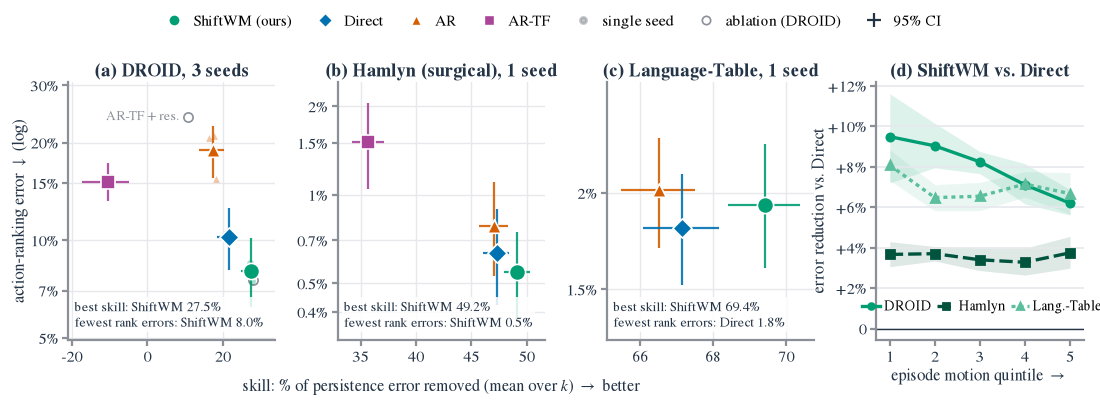
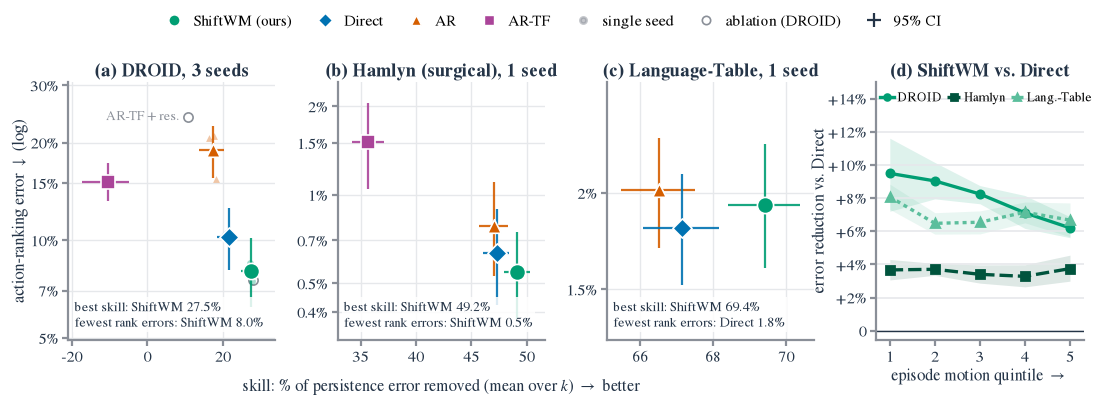
Trade-off figure: panel (d) legend inside the panel, above the data

Changed region(s): [[0.7418, 0.2049, 1.0, 0.761], [0.7727, 0.7902, 0.9891, 0.8195]]

diff --git a/paper/submission_folder/figures/src/make_tradeoff.py b/paper/submission_folder/figures/src/make_tradeoff.py
@@ -158,11 +158,12 @@ def gain_panel(ax, data):
         ax.fill_between(q, lo, hi, color=c, alpha=0.13, lw=0)
         ax.plot(q, g, color=c, ls=ls, marker=mk, ms=2.6, lw=1.2, label=lab)
         out[ds] = g
-    ax.legend(loc="lower center", ncol=3, fontsize=5.0, frameon=False, handlelength=1.3, handletextpad=0.25,
-              columnspacing=0.4, borderaxespad=0.2, bbox_to_anchor=(0.51, 0.07), markerscale=0.8)
     ax.axhline(0, color=mf.INK, lw=0.5)
     ax.set_xlim(0.7, 5.3); ax.set_xticks(q); ax.set_xticklabels(["1", "2", "3", "4", "5"])
-    ax.set_ylim(bottom=min(0, ax.get_ylim()[0]))
+    lo_, hi_ = ax.get_ylim(); lo_ = min(0, lo_)
+    ax.set_ylim(lo_, hi_ + 0.22 * (hi_ - lo_))  # headroom: legend sits inside the panel, above the data
+    ax.legend(loc="upper center", ncol=3, fontsize=4.8, frameon=False, handlelength=1.0, handletextpad=0.25,
+              columnspacing=0.4, borderaxespad=0.3, bbox_to_anchor=(0.53, 1.0), markerscale=0.8)
     ax.yaxis.set_major_formatter(FuncFormatter(lambda v, _: f"{v:+g}%" if v else "0"))
     ax.tick_params(labelsize=5.6, length=2, pad=1.5); ax.grid(axis="x", visible=False)
     ax.set_xlabel("episode motion quintile $\\rightarrow$", fontsize=5.8, labelpad=1)
